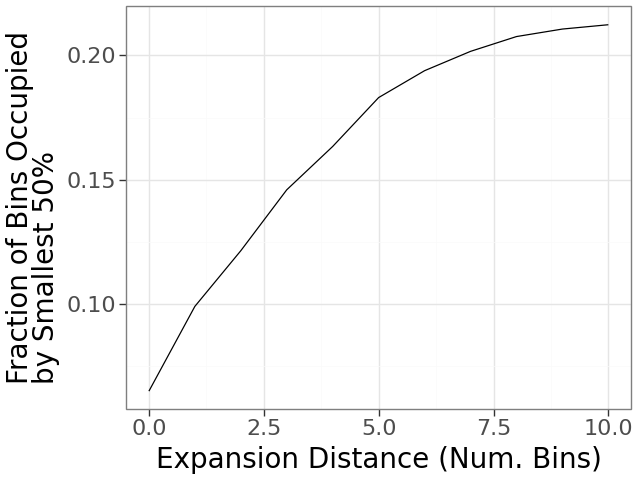
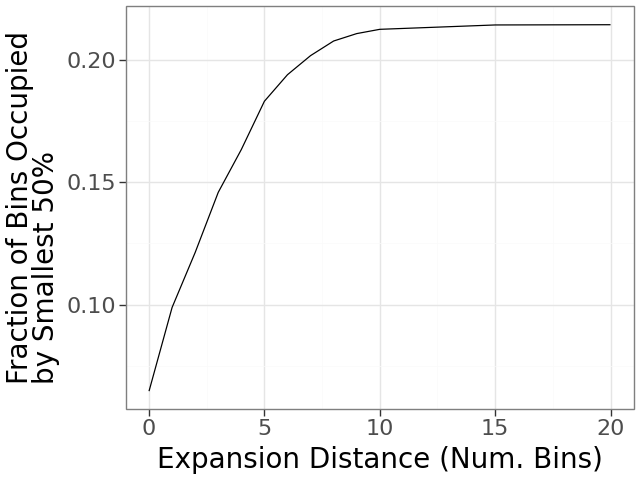
Fix small mistakes and explore distances

diff --git a/code/10_HD_bin_level/cell_environment/01_explore_distances.py b/code/10_HD_bin_level/cell_environment/01_explore_distances.py
@@ -8,7 +8,7 @@ import scanpy as sc
 import os
 from pyhere import here
 import session_info
-import datetime
+import matplotlib.pyplot as plt
 import plotnine as pn
 import pandas as pd
 
@@ -96,7 +96,7 @@ p = (
             y = 'Fraction of Bins Occupied\nby Smallest 50%',
         )
 )
-p.save(filename = 'occupation.png', path = plot_dir)
+p.save(filename = os.path.join(plot_dir, 'occupation.png'))
 
 #   Add in FICTURE clusters (k = 4) for this sample to adata.obs
 ficture_df = pd.read_csv(ficture_path, usecols = ficture_cols)
@@ -107,7 +107,7 @@ ficture_df = (
 )
 adata.obs['FICTURE_k4'] = ficture_df['FICTURE_k4']
 
-adata = ebf.find_microenvironment(adata, expansion_distance = 5)
+adata = ebf.find_microenvironment(adata, expansion_distance = 6)
 adata = ebf.drop_bad_secondary_cells(adata, min_bins_per_cell = 4)
 
 ################################################################################
